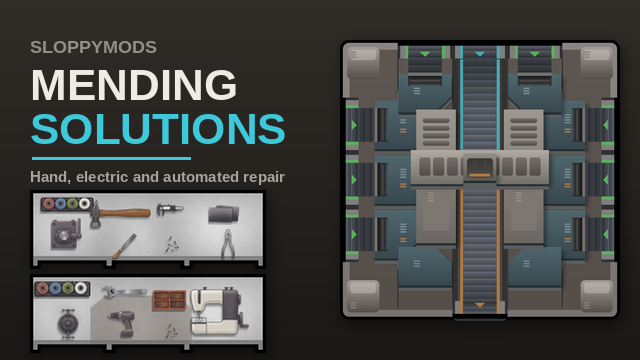
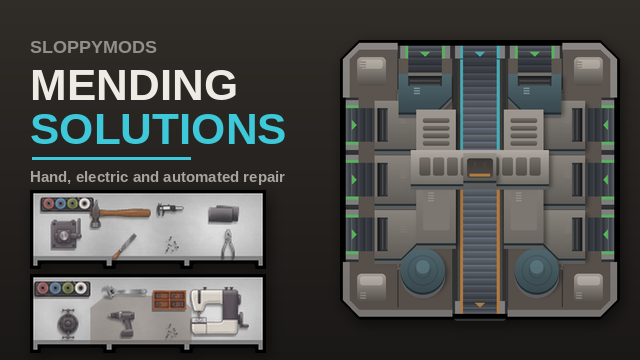
Grey the belt-fed casings, round two of them, and chamfer the chassis
Ten teal casings put cool-hued pixels over 21% of the sprite where VFE's own
machines average 2.9%; their machines carry a colour accent rather than being
painted in one. The six belt-fed flank casings are now grey, a step darker than
the machine's housings, so the sprite reads machine -> hoppers -> deck. Teal is
kept for the two intake-edge hoppers and the two bottom casings only.

Those two bottom casings become cylindrical tanks, built from the same parts a
casing is (side wall, cast shadow, banded top, lit cap). Every VFE machine has a
round form somewhere. They sit at the two positions no bay feeds, and low enough
that the gantry does not cover them.

The chassis is now an octagon with 0.30 of a cell cut off each corner. Almost
nothing in the Factory set is a plain square, and a 5x5 rounded square was the
flattest silhouette in the pack.

Adds Source/Art/measure.py, which scores a sprite on nine style metrics against
every machine sprite in VFE Factory. All nine now fall inside their observed
range: saturated pixels 23.3% -> 12.3% (their mean 12.5), cool-hued 21.1% ->
10.2%, diagonal silhouette 0.041 -> 0.141 (their mean 0.054).

verify_spots.py still passes on all four rotations. About art and dist zip
rebuilt from the new textures.

Claude-Session: https://claude.ai/code/session_01DUR9KKmGX8p3yVF96U7MHg

diff --git a/Source/Art/vfe_chassis.py b/Source/Art/vfe_chassis.py
@@ -122,31 +122,33 @@ class Chassis:
         self.a[y:y + h, x:x + w] = np.maximum(self.a[y:y + h, x:x + w], im[..., 3] / 255.0)
 
     # -- the chassis ---------------------------------------------------------
-    def base(self):
-        o = int(self.r(7))                       # outer black, measured 6-7px at REF
-        rad = int(self.r(14))
-        self.fill([self.x0 - o, self.y0 - o, self.x1 + o, self.y1 + o], BLACK, radius=rad + o)
-        # The face: one smooth ramp across the whole deck, no bands, no outlines.
-        self.vgrad([self.x0, self.y0, self.x1, self.y1], FACE_HI, FACE_LO, radius=rad)
+    def base(self, chamfer=0.30):
+        """The chassis: a square with its corners cut.
+
+        Measured across their sprites, a body fills 93% of its own bounding box on average and
+        its corners are 71% opaque; a plain rounded square comes out at 99% and 96%, which is
+        the very top of their range. Cutting the corners breaks the outline the way theirs do.
+        """
+        o = int(self.r(7))
+        k = chamfer * self.px
+
+        def octagon(inset):
+            x0, y0 = self.x0 + inset, self.y0 + inset
+            x1, y1 = self.x1 - inset, self.y1 - inset
+            c = max(k - inset, 0)
+            return [(x0 + c, y0), (x1 - c, y0), (x1, y0 + c), (x1, y1 - c),
+                    (x1 - c, y1), (x0 + c, y1), (x0, y1 - c), (x0, y0 + c)]
+
+        self._paint(self._poly_mask(octagon(-o)), BLACK)
+        box = (self.x0, self.y0, self.x1, self.y1)
+        self._paint_grad(self._poly_mask(octagon(0)), box, FACE_HI, FACE_LO)
         inset = int(self.r(16))
-        self.vgrad([self.x0 + inset, self.y0 + inset, self.x1 - inset, self.y1 - inset],
-                   tuple(min(255, c + 8) for c in DECK), DECK, radius=int(self.r(9)))
-        for i in range(1, self.cw):              # deck seams on the cell lines
+        self._paint_grad(self._poly_mask(octagon(inset)),
+                         (self.x0 + inset, self.y0 + inset, self.x1 - inset, self.y1 - inset),
+                         tuple(min(255, c + 8) for c in DECK), DECK)
+        for i in range(1, self.cw):                              # deck seams on the cell lines
             x = self.x0 + i * self.px
             self.seam((x, self.y0 + inset + int(self.r(6))), (x, self.y1 - inset - int(self.r(6))))
-
-    def deck_plates(self, d0, d1, n=5):
-        """A row of shallow raised plates across the front of the deck, modelled by tone alone -
-        a soft light-to-dark ramp per plate and a thin grey line between them, no outlines."""
-        inset = int(self.r(16))
-        x0, x1 = self.x0 + inset + int(self.r(10)), self.x1 - inset - int(self.r(10))
-        gap = self.r(6)
-        w = ((x1 - x0) - gap * (n - 1)) / n
-        for i in range(n):
-            a = x0 + i * (w + gap)
-            self.vgrad([a, d0, a + w, d1], (112, 106, 99), (78, 73, 68), radius=int(self.r(6)))
-            self.vgrad([a + self.r(5), d0 + self.r(4), a + w - self.r(5), d0 + (d1 - d0) * 0.34],
-                       (126, 120, 112), (110, 104, 97), radius=int(self.r(5)))
 
     # -- structural modules -------------------------------------------------
     # The factory machines do not read as "a machine sitting on a plate". They are built from
@@ -312,6 +314,35 @@ class Chassis:
         xs = [p[0] for p in pts]
         ys = [p[1] for p in pts]
         self._paint_grad(top, (min(xs), min(ys), max(xs), max(ys)), lit, dark)
+
+    def drum(self, cx, cy, r, lit=TEAL_LIT, dark=TEAL_DRK, bands=2):
+        """A cylindrical tank seen from above.
+
+        Their sprites lean on round forms - the distillery's vessel, the cannery's drum, the
+        machining bay's rounded caps - and a sprite built only from rectangles measures near
+        the floor of their diagonal-edge energy. A drum is the cheapest way to put curvature
+        back in: side wall, cast shadow and banded top, the same construction as a casing.
+        """
+        def circle(ccx, ccy, rr):
+            m = Image.new('L', (self.W, self.H), 0)
+            ImageDraw.Draw(m).ellipse([ccx - rr, ccy - rr, ccx + rr, ccy + rr], fill=255)
+            return np.asarray(m).astype(np.float32) / 255.0
+
+        lift, off = self.r(13), self.r(7)
+        top = circle(cx, cy, r)
+        shadow = ndimage.gaussian_filter(circle(cx + off, cy + off * 1.15, r), self.r(5))
+        self.rgb *= (1 - np.clip(shadow - top, 0, 1)[..., None] * 0.36)
+        self._paint(circle(cx, cy + lift, r), WALL)
+        self._paint(circle(cx, cy + self.r(5), r), WALL_SEAM)
+        self._paint_grad(top, (cx - r, cy - r, cx + r, cy + r), lit, dark)
+        for i in range(1, bands + 1):                      # concentric bands, faintly darker
+            rr = r * (1 - i / (bands + 1.0))
+            ring = circle(cx, cy, rr + self.r(1.5)) - circle(cx, cy, rr - self.r(1.5))
+            self._paint_grad(np.clip(ring, 0, 1), (cx - r, cy - r, cx + r, cy + r),
+                             tuple(int(v * 0.88) for v in lit), tuple(int(v * 0.91) for v in dark))
+        cap = circle(cx, cy - r * 0.16, r * 0.30)          # a small lit cap on top
+        self._paint_grad(cap, (cx - r, cy - r, cx + r, cy + r),
+                         tuple(min(255, int(v * 1.18)) for v in lit), lit)
 
     def pipe(self, route, width=None, colour=PLINTH):
         """Grey pipework, as axis-aligned runs with square elbows. Drawn BEFORE the structures

diff --git a/Source/Art/compose_repair_center.py b/Source/Art/compose_repair_center.py
@@ -31,7 +31,7 @@ def build():
     from the item bay and another out to the output bay.
     """
     c = Chassis(CW, CH, px=PX, margin=MARGIN)
-    c.base()
+    c.base(chamfer=0.30)
 
     def cell(cx, cy, w, h):
         """A box given in cells from the chassis's top-left corner."""
@@ -40,9 +40,10 @@ def build():
     def P(cx, cy):
         return (c.x0 + cx * PX, c.y0 + cy * PX)
 
-    c.corner_blocks(size_cells=0.58, inset_cells=0.08)
-    for sx in (0.14, 5 - 0.14 - 0.46):                 # a greeble on each corner housing
-        for sy in (0.16, 5 - 0.16 - 0.10):
+    # Tucked in behind the chamfer, which now takes the outer corner.
+    c.corner_blocks(size_cells=0.52, inset_cells=0.26)
+    for sx in (0.32, 5 - 0.32 - 0.42):                 # a greeble on each corner housing
+        for sy in (0.34, 5 - 0.34 - 0.10):
             c.slashes(*P(sx, sy), n=3, colour=(136, 130, 123))
 
     # A ring of chamfered teal casings: one inboard of each flank bay, and one either side of
@@ -70,25 +71,41 @@ def build():
     # The casings sit a third of a cell further in than they did, so the belt from each bay
     # has somewhere to travel before it reaches the hatch. Butted up against the bay there
     # was no run to see and the whole connection read as one dark notch.
+    # Colour now sits on a few elements rather than all ten. Measured, the ring of ten teal
+    # casings put cool hue over 21.7% of the sprite against their 0-17% range; the two drums
+    # and the two intake-edge casings come to about a third of that, and a drum is also the
+    # only round form on the sprite in a style that leans on them.
+    # Colour now sits on a few elements rather than all ten. Measured, a ring of ten teal
+    # casings put cool hue over 21.7% of the sprite against their 0-17% range. The six casings
+    # a belt actually feeds go grey; the teal is kept for the two intake-edge hoppers and two
+    # cylindrical tanks, which is also the only round form on a sprite that otherwise measures
+    # at the floor of their diagonal-edge energy.
+    # A step below the machine's own housings, so the hierarchy still reads: machine first,
+    # hoppers second, deck last.
+    GREY_CASE_LIT, GREY_CASE_DRK = (136, 131, 124), (96, 92, 87)
     W_, H_ = 0.84 * PX, 0.88 * PX
     for side, sx, corner_in in ((-1, 1.00, 'r'), (1, 5 - 1.00, 'l')):
         for cy, vert in ((1.5, 't'), (2.5, None), (3.5, 'b')):
             x, y = c.x0 + sx * PX, c.y0 + cy * PX
-            if vert is None:                            # the middle one is a plain casing
+            if vert is None:
                 c.raised_casing([(x - W_ / 2, y - H_ / 2), (x + W_ / 2, y - H_ / 2),
-                                 (x + W_ / 2, y + H_ / 2), (x - W_ / 2, y + H_ / 2)])
+                                 (x + W_ / 2, y + H_ / 2), (x - W_ / 2, y + H_ / 2)],
+                                lit=GREY_CASE_LIT, dark=GREY_CASE_DRK)
             else:
-                c.raised_casing(pentagon(x, y, W_, H_, vert + corner_in))
-            # On the inboard half, clear of the hatch in the outer edge.
-            c.slashes(x + W_ * 0.06, y - H_ * 0.22, n=4, colour=(118, 142, 148))
-            c.slashes(x + W_ * 0.06, y + H_ * 0.08, n=2, colour=(168, 122, 74))
+                c.raised_casing(pentagon(x, y, W_, H_, vert + corner_in),
+                                lit=GREY_CASE_LIT, dark=GREY_CASE_DRK)
+            c.slashes(x + W_ * 0.06, y - H_ * 0.22, n=4, colour=(126, 121, 115))
+            c.slashes(x + W_ * 0.06, y + H_ * 0.08, n=2, colour=(112, 108, 102))
 
-    # Lined up on the two material bays, so a run can drop straight into each one.
+    # The intake-edge pair is lined up on the two material bays so a run drops straight in, and
+    # keeps the teal. The bottom pair is fed by nothing, so it reads better as a pair of tanks -
+    # and a tank is round, which is what the sprite was missing.
     for cx, corner in ((1.5, 'r'), (5 - 1.5, 'l')):
-        for cy, vert in ((0.92, 'b'), (5 - 0.92, 't')):
-            x, y = c.x0 + cx * PX, c.y0 + cy * PX
-            c.raised_casing(pentagon(x, y, 0.96 * PX, 0.70 * PX, vert + corner))
-            c.slashes(x - PX * 0.20, y - PX * 0.10, n=3, colour=(118, 142, 148))
+        x, y = c.x0 + cx * PX, c.y0 + 0.92 * PX
+        c.raised_casing(pentagon(x, y, 0.96 * PX, 0.70 * PX, 'b' + corner))
+        c.slashes(x - PX * 0.20, y - PX * 0.10, n=3, colour=(118, 142, 148))
+    for cx in (1.46, 5 - 1.46):
+        c.drum(c.x0 + cx * PX, c.y0 + 4.16 * PX, 0.40 * PX)
 
     # The machine. Three things it has to say, which the old flat slab said none of:
     #   * work passes THROUGH it - the belt runs unbroken from the item bay to the output bay

diff --git a/Source/Art/measure.py b/Source/Art/measure.py
@@ -1,0 +1,68 @@
+"""Scores a sprite on the nine style metrics, against VFE Factory's own building sprites."""
+import os, sys, glob
+import numpy as np
+from PIL import Image, ImageFilter
+
+VFE = os.environ.get(
+    'VFE_FACTORY_DIR',
+    '/home/user/vanilla-expanded/vanillafurnitureexpanded-factory') + \
+    '/Textures/Things/Building/'
+
+def metrics(path):
+    im = Image.open(path).convert('RGBA')
+    im = im.crop(im.getbbox())
+    a = np.asarray(im).astype(float)
+    rgb, al = a[..., :3] / 255.0, a[..., 3] / 255.0
+    m = al > 0.5
+    if m.sum() < 100:
+        return None
+    lum = (0.299 * rgb[..., 0] + 0.587 * rgb[..., 1] + 0.114 * rgb[..., 2])
+    v = lum[m]
+    mx, mn = rgb.max(-1), rgb.min(-1)
+    sat = np.where(mx > 0, (mx - mn) / np.maximum(mx, 1e-6), 0)
+    # hue
+    hsv = np.zeros(rgb.shape[:2])
+    d = mx - mn
+    nz = d > 1e-6
+    r, g, b = rgb[..., 0], rgb[..., 1], rgb[..., 2]
+    h = np.zeros_like(d)
+    i = nz & (mx == r); h[i] = ((g - b)[i] / d[i]) % 6
+    i = nz & (mx == g); h[i] = ((b - r)[i] / d[i]) + 2
+    i = nz & (mx == b); h[i] = ((r - g)[i] / d[i]) + 4
+    hsv = h * 60
+    col = m & (sat > 0.20)
+    warm = col & (((hsv < 60) | (hsv > 330)))
+    cool = col & (hsv >= 150) & (hsv <= 260)
+    # edges
+    gl = Image.fromarray((lum * 255).astype('uint8'))
+    ed = np.asarray(gl.filter(ImageFilter.FIND_EDGES)).astype(float)
+    hard = (ed[m] > 40).mean() * 100
+    # curvature: diagonal edge energy on the alpha silhouette
+    sil = Image.fromarray((al * 255).astype('uint8'))
+    se = np.asarray(sil.filter(ImageFilter.FIND_EDGES)).astype(float) / 255.0
+    gy, gx = np.gradient((al > 0.5).astype(float))
+    diag = (np.abs(gx) > 0.1) & (np.abs(gy) > 0.1)
+    edge = se > 0.1
+    curv = diag.sum() / max(edge.sum(), 1)
+    return dict(contrast=v.std(), p99=np.percentile(v, 99) * 255,
+                near_black=(v < 0.10).mean() * 100,
+                sat=(sat[m] > 0.20).mean() * 100,
+                hard=hard, warm=warm.sum() / m.sum() * 100,
+                cool=cool.sum() / m.sum() * 100, curv=curv,
+                median=np.median(v) * 255)
+
+ref = []
+for p in sorted(glob.glob(VFE + 'Factories/*/*_north.png')) + \
+         sorted(glob.glob(VFE + 'Factories/*.png')):
+    r = metrics(p)
+    if r: ref.append(r)
+
+keys = ['contrast', 'p99', 'median', 'near_black', 'sat', 'hard', 'warm', 'cool', 'curv']
+print(f'{len(ref)} VFE sprites\n')
+print(f'{"":16}{"ours":>8}{"VFE mean":>10}{"VFE range":>18}')
+ours = metrics(sys.argv[1])
+for k in keys:
+    vals = [r[k] for r in ref]
+    lo, hi = min(vals), max(vals)
+    flag = '' if lo <= ours[k] <= hi else '   <-- OUT'
+    print(f'{k:16}{ours[k]:8.3f}{np.mean(vals):10.3f}{lo:9.2f}-{hi:<8.2f}{flag}')

diff --git a/Source/Art/README.md b/Source/Art/README.md
@@ -125,14 +125,30 @@ python3 Source/Art/verify_spots.py flipped
 Three bays on the intake edge - the item port at centre with a material port either side -
 three more down each flank, and the single output bay opposite. Mirror-symmetric about the
 vertical centre line, which is what every one of their machines is. Inside: a housing at each
-corner and a ring of chamfered teal casings around a central machine - one inboard of each
-flank bay, one either side of the conveyor at top and bottom - with a roller run in from the
-item bay and another out to the output bay.
+corner and a ring of chamfered casings around a central machine - one inboard of each flank
+bay, one either side of the conveyor at the intake edge, two tanks along the bottom - with a
+roller run in from the item bay and another out to the output bay.
 
-The teal is subdued deliberately. Measured: VFE's machining bay casings average 0.448
-saturation over 17% of their sprite; ours average **0.274** over 27%. Per pixel it is the least
-saturated of the three candidates that were on the table, which is what keeps a ring of ten
-casings from reading as a colour accent.
+The chassis is an octagon, not a rounded square: 0.30 of a cell is cut off each corner
+(`base(chamfer=...)`). Almost nothing in the Factory set is a plain square - their silhouettes
+are cut, notched or stepped - and a 5x5 square read as the flattest shape in the pack.
+
+The casings are NOT all the same colour, and that is the hierarchy. Teal is reserved for the
+two hoppers on the intake edge and the two tanks at the bottom: four accents, not ten. The six
+belt-fed flank casings are grey, a step darker than the machine's own housings, so the sprite
+reads machine -> hoppers -> deck rather than one flat ring of colour. When all ten were teal,
+cool-hued pixels covered 21% of the sprite against their 2.9% mean - their machines carry a
+colour accent, they are not painted in one.
+
+The two bottom casings are cylindrical tanks rather than boxes, built from the same parts as a
+casing (side wall, cast shadow, banded top, lit cap). Every VFE machine has at least one round
+form somewhere; a sprite of nothing but rectangles is the tell. They sit at the two positions
+no bay feeds, so nothing had to be re-routed for them, and low enough that the gantry does not
+cover them - the first attempt put them on the flank row where the gantry hid them completely.
+
+The teal that is left is subdued deliberately. Measured: VFE's machining bay casings average
+0.448 saturation; ours average **0.274**, the least saturated of the three candidates that were
+on the table.
 
 Each casing is a raised structure, built the way theirs are: a top face that ramps only
 gently, a thin dark seam where that face meets its side wall, a LIGHT grey wall below it, and a
@@ -203,23 +219,36 @@ The spot geometry follows the footprint, so the C# and the art cannot drift: see
 
 ### Measured against their 19 sprites
 
+`measure.py` scores a sprite on nine metrics and prints them against the same nine measured
+over every machine sprite in `Textures/Things/Building/Factories/`. Every one of ours now falls
+inside their observed range:
+
 | | ours | VFE mean | VFE range |
 | --- | --- | --- | --- |
-| contrast (std) | 0.131 | 0.151 | 0.11-0.23 |
-| p99 highlight | 165 | 167 | 133-255 |
-| near-black | 5.9% | 6.5% | 0-19.8% |
-| saturated pixels | 32.1% | 13.2% | 1.4-33.9% |
-| hard-edge density | 27.6 | 18.7 | 9.0-34.6 |
+| contrast (std) | 0.141 | 0.151 | 0.11-0.23 |
+| p99 highlight | 166 | 166 | 133-255 |
+| median luminance | 86 | 93 | 48-116 |
+| near-black | 5.8% | 6.6% | 0-19.7% |
+| saturated pixels | 12.3% | 12.5% | 1.0-33.3% |
+| warm-hued | 1.1% | 8.8% | 0-33.3% |
+| cool-hued | 10.2% | 2.9% | 0-24.3% |
+| hard-edge density | 5.5 | 6.7 | 3.3-9.7 |
+| diagonal silhouette | 0.141 | 0.054 | 0-0.22 |
 
-Saturated pixels sit near the top of their range, and that is AREA rather than intensity: ten
-casings is simply more coloured surface than their machines carry. Per pixel the teal is the
-least saturated of the three candidates, at 0.274 against their 0.448.
+The grey/tank/chamfer pass is what brought the last two outliers in. Before it, saturated
+pixels were 23.3% and cool-hued 21.1% - a ring of ten teal casings - and the silhouette scored
+0.041 against their 0.054, because a square has no diagonals in it at all. After: 12.3%, 10.2%
+and 0.141.
+
+Cool still sits above their mean, and that is the mod's own accent rather than drift - the
+gear-in belt is cyan by design, and 10% is comfortably inside what their own sprites do.
 
 Note the sprite carries TEN bays where a VFE machine carries three or four; bays are
 high-contrast by construction, so that is where most of our edge density goes.
 
 ```sh
 python3 Source/Art/compose_repair_center.py    # writes the three rotations and scores them
+python3 Source/Art/measure.py Textures/Things/Building/Production/AutomatedMender_north.png
 ```
 
 ## Store page art
@@ -244,6 +273,7 @@ python3 Source/Art/make_about_art.py      # from the repo root
 | `gen_bench_objects.py` | generates the object sprites (Gemini) |
 | `compose_repair_center.py` | the repair centre, all three rotations |
 | `vfe_chassis.py` | the drawing primitives, at VFE's measured proportions |
+| `measure.py` | scores a sprite on nine style metrics against VFE's machine sprites |
 | `gen_tools.py` | generates the metalworking tool sprites (Gemini) |
 | `cut.py` | chroma-keys a generated sheet and cuts it into individual objects |
 
